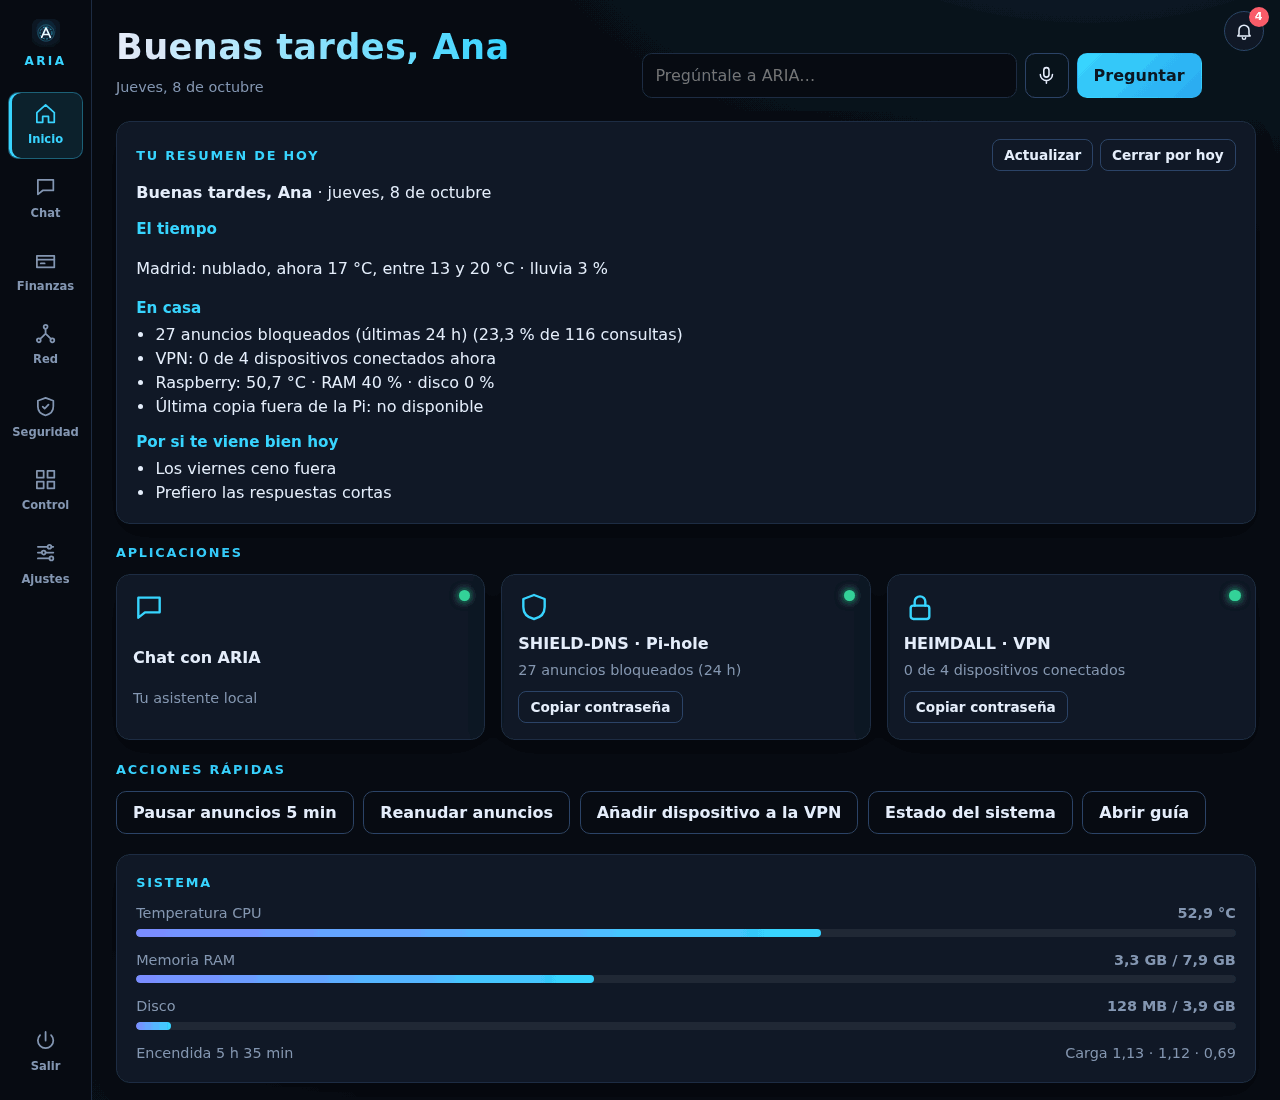
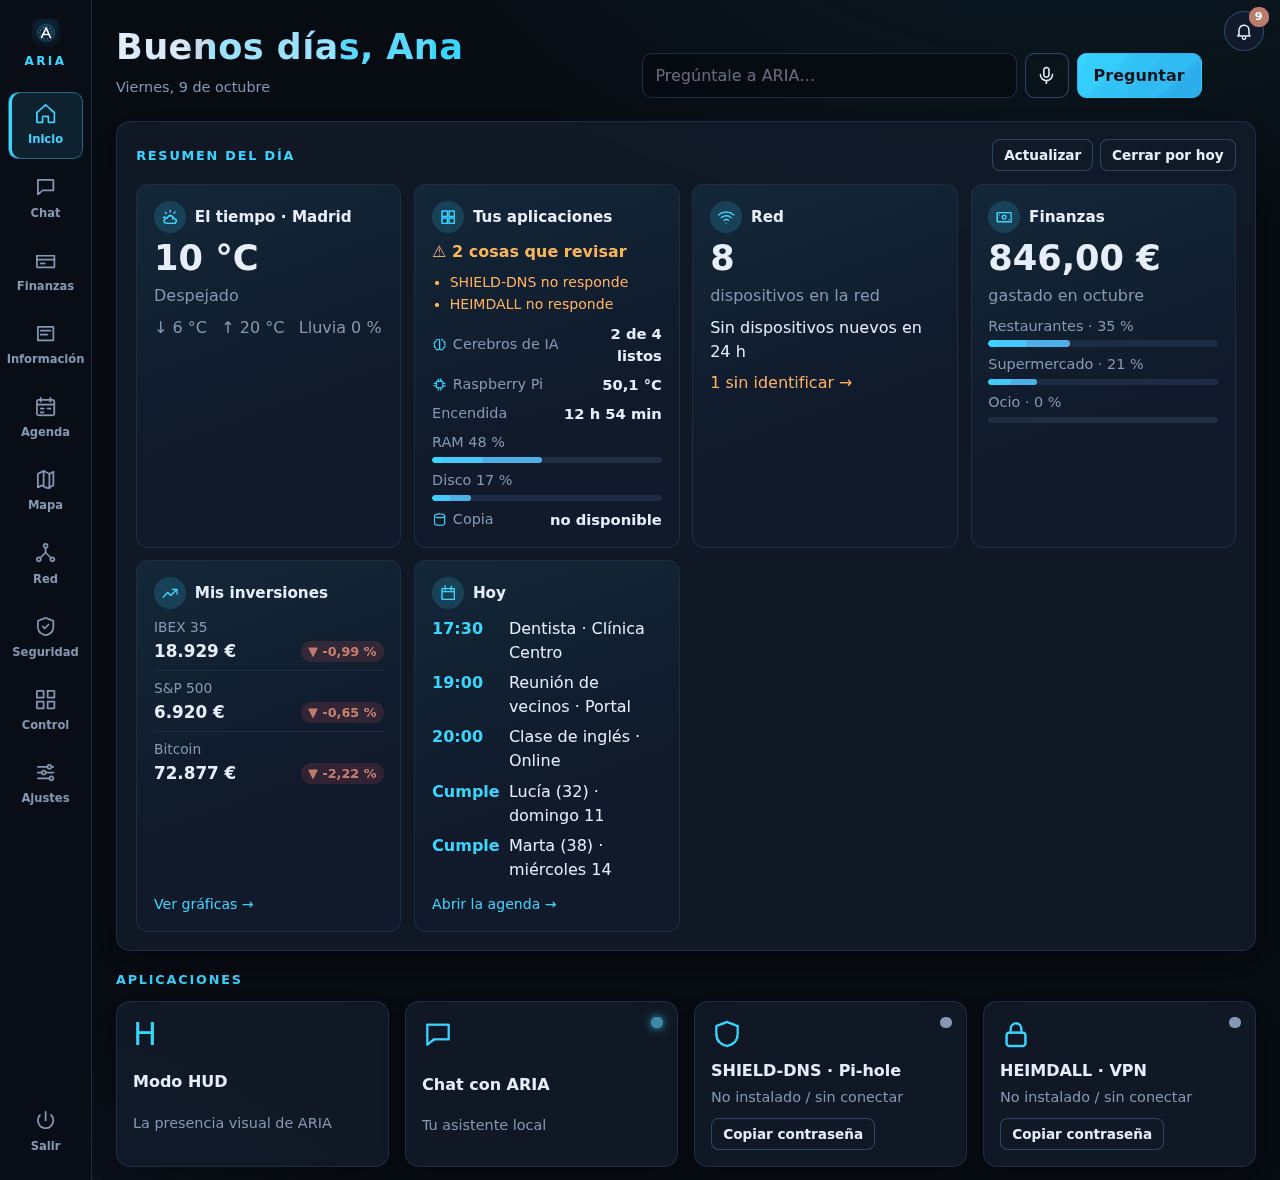
docs: README y guías al día (HUD, resumen diario, Agenda, Mapa, Información, sistema en directo) con capturas nuevas
Capturas de una instancia de demostración con datos ficticios.

diff --git a/README.md b/README.md
@@ -32,7 +32,7 @@
   <a href="docs/PLAN.md">🗺 Hoja de ruta</a>
 </p>
 
-**ARIA es un asistente de inteligencia artificial autoalojado que gestiona tus aplicaciones de casa.** Se instala con un comando en una Raspberry Pi o en un PC con Linux, se abre desde el navegador o el móvil y entiende español: le hablas o le escribes y ella consulta, enciende, pausa o te avisa. HEIMDALL admite dispositivos temporales y avisa al administrador si una VPN conecta desde un país u operador nuevo. Para ello solo envía la IP pública al servicio HTTPS de geolocalización; las IP privadas y las del rango local se ignoran y la respuesta se guarda en ARIA durante siete días para no repetir consultas.
+**ARIA es un asistente de inteligencia artificial autoalojado que gestiona tus aplicaciones de casa.** Se instala con un comando en una Raspberry Pi o en un PC con Linux, se abre desde el navegador o el móvil y entiende español: le hablas o le escribes y ella consulta, enciende, pausa o te avisa.
 
 ARIA se amplía con **módulos**: cada aplicación que añades aparece en su página de Inicio, gana herramientas en el chat y puede mandarte avisos. Trae dos aplicaciones integradas como ejemplo, [SHIELD-DNS](https://github.com/BertMarti/SHIELD-DNS) (bloqueador de anuncios) y [HEIMDALL](https://github.com/BertMarti/HEIMDALL) (VPN), pero puedes añadir todas las que quieras.
 
@@ -45,9 +45,26 @@ ARIA se amplía con **módulos**: cada aplicación que añades aparece en su pá
 </table>
 
 <p align="center">
-  <img alt="Página de Inicio de ARIA con el resumen del día, las aplicaciones y el estado del sistema" src="docs/img/captura-inicio.png" width="100%">
-  <br><sub>Inicio de ARIA en una instancia de demostración con datos ficticios.</sub>
+  <img alt="Modo HUD de ARIA: orbe animado que reacciona a la voz, reloj, tiempo, avisos, estado de la casa e inversiones" src="docs/img/captura-hud.png" width="100%">
+  <br><sub><b>Modo HUD</b>: la presencia de ARIA a pantalla completa. El orbe cambia de color al escuchar, pensar y hablar, y ondula con su voz.</sub>
 </p>
+
+<p align="center">
+  <img alt="Página de Inicio de ARIA con el resumen del día en tarjetas" src="docs/img/captura-inicio.png" width="100%">
+  <br><sub><b>Inicio</b>: el resumen del día en tarjetas (tiempo, estado de tus aplicaciones, red, finanzas, inversiones y agenda). Instancia de demostración con datos ficticios.</sub>
+</p>
+
+### 🆕 Novedades
+
+| | Qué hay de nuevo |
+|:---:|---|
+| 🌌 | **Modo HUD** (`#hud`): pantalla completa con un orbe que respira, escucha y habla; reloj, tiempo, avisos, estado de la casa e inversiones. Respeta «reducir movimiento». |
+| 📰 | **Resumen diario** bien maquetado en **Inicio**, en el **HUD** y por **Telegram** cada mañana: tiempo, salud de las aplicaciones, red, finanzas, inversiones, agenda y cumpleaños. |
+| 📅 | **Agenda y cumpleaños**: calendario mensual, semanal y en lista, eventos que se repiten, avisos antes de cada cita y de cada cumpleaños. También por chat («apúntame el dentista el jueves a las 17:30»). |
+| 🗺 | **Mapa libre** con OpenStreetMap: buscar lugares, tu ubicación, rutas y «farmacias cerca», sin claves ni seguimiento. |
+| 📈 | **Información**: noticias por temas con resumen y fuentes, y **Mis inversiones** (acciones, fondos, ETF y cripto en euros con gráfica, variación y tu posición). |
+| 🖥 | **Sistema en directo**: CPU, memoria y red por contenedor, temperatura y un botón seguro para **reiniciar la Raspberry** desde la web o Telegram. |
+| ⚙ | **Automatizaciones** «si pasa esto, haz aquello», **estadísticas por dispositivo** de la red, **informe semanal** y **proyectos y decisiones** en la memoria. |
 
 ## 📑 Índice
 
@@ -78,6 +95,9 @@ ARIA se amplía con **módulos**: cada aplicación que añades aparece en su pá
 | 🔔 | **Avisos y canales** | Campana de avisos en la web, **bot de Telegram** propio y **notificaciones push** en el móvil o el navegador.<br>Vigila la casa sola: servicios caídos, dispositivos desconocidos, temperatura, disco, copias atrasadas… |
 | 🏡 | **Tu casa y tu red** | **Finanzas personales**: movimientos, categorías, presupuestos e importación del CSV del banco.<br>**Inventario de red**: dispositivos de la LAN, latencia, test de velocidad e historial.<br>**Seguridad**: escaneo defensivo de puertos de tu red y búsqueda de vulnerabilidades conocidas.<br>**Control parental** por dispositivo (pausar internet, bloquear TikTok, YouTube…, horarios), mediante SHIELD-DNS. |
 | 🧩 | **Aplicaciones (módulos)** | **SHIELD-DNS**: estadísticas, pausar y reanudar el bloqueo de anuncios.<br>**HEIMDALL**: ver, crear, activar y desactivar dispositivos de la VPN con su código QR.<br>**Uptime web** (módulo de ejemplo): «¿responde example.org?» y avisos si una web se cae.<br>**Las tuyas**: un mosaico en Inicio, herramientas en el chat, avisos y endpoints propios. Ver [docs/MODULOS.md](docs/MODULOS.md).<br>Spotify y Netflix existen en el código pero están **aparcados** (desactivados por defecto, `ARIA_SPOTIFY=0` / `ARIA_NETFLIX=0`). |
+| 📅 | **Agenda, mapa e información** | **Agenda** con calendario (mes, semana, lista), eventos repetidos y **cumpleaños** con aviso.<br>**Mapa** OpenStreetMap: búsqueda, ubicación, rutas y lugares cercanos.<br>**Información**: noticias por temas y **Mis inversiones** con gráficas en euros. |
+| 🌌 | **HUD y resumen diario** | **Modo HUD** a pantalla completa con orbe animado y voz.<br>**Resumen diario** en Inicio, HUD y Telegram (HTML bien maquetado). |
+| 🖥 | **Sistema** | Telemetría en directo por contenedor, **reinicio seguro** firmado (HMAC) y **automatizaciones**. HEIMDALL admite accesos **temporales** y avisa si una VPN conecta desde un país u operador nuevo (solo se consulta la IP pública). |
 | 🔑 | **Acceso y usuarios** | HTTPS automático en tu red (`https://aria.local`, la IP o `https://aria.lan`).<br>Opcional: tu dominio con **Cloudflare Tunnel + Access**, sin abrir puertos y con inicio de sesión único.<br>Varios usuarios con rol **administrador** o **usuario**; permisos comprobados en el servidor.<br>Paleta de órdenes **Ctrl+K**, app instalable (PWA) y menú **Compartir** de Android. |
 
 <p align="right"><a href="#readme-top">⬆ Volver arriba</a></p>
@@ -88,6 +108,14 @@ ARIA se amplía con **módulos**: cada aplicación que añades aparece en su pá
 > Todas las capturas salen de una instancia de demostración con **datos ficticios** (Ana, Lucía, red `192.168.1.x`). Las respuestas del chat son de ejemplo.
 
 <table>
+  <tr>
+    <td width="50%"><img alt="Agenda con calendario mensual, eventos y cumpleaños" src="docs/img/captura-agenda.png"><p align="center"><sub><b>Agenda</b>: calendario del mes, el día elegido y los próximos cumpleaños</sub></p></td>
+    <td width="50%"><img alt="Resumen diario de ARIA tal como llega por Telegram" src="docs/img/captura-telegram.png"><p align="center"><sub><b>Telegram</b>: el resumen de cada mañana</sub></p></td>
+  </tr>
+  <tr>
+    <td><img alt="Información: Mis inversiones con gráficas y noticias por temas" src="docs/img/captura-informacion.png"><p align="center"><sub><b>Información</b>: inversiones en euros y noticias por temas</sub></p></td>
+    <td><img alt="Mapa de OpenStreetMap con búsqueda y lugares cercanos" src="docs/img/captura-mapa.png"><p align="center"><sub><b>Mapa</b>: OpenStreetMap, sin claves ni seguimiento</sub></p></td>
+  </tr>
   <tr>
     <td width="50%"><img alt="Chat con ARIA: pregunta por el estado de la casa y pausa del bloqueador" src="docs/img/captura-chat.png"><p align="center"><sub><b>Chat</b>: herramientas en vivo y el cerebro que respondió</sub></p></td>
     <td width="50%"><img alt="Página Red con el inventario de dispositivos de casa" src="docs/img/captura-red.png"><p align="center"><sub><b>Red</b>: inventario, latencia y un dispositivo desconocido</sub></p></td>
@@ -103,16 +131,22 @@ ARIA se amplía con **módulos**: cada aplicación que añades aparece en su pá
 </table>
 
 <details>
-<summary><b>📱 Más capturas: móvil, Centro de control y Finanzas</b></summary>
+<summary><b>📱 Más capturas: móvil, Centro de control, semana y Finanzas</b></summary>
 <br>
 
 <p align="center">
-  <img alt="Inicio de ARIA en el móvil" src="docs/img/captura-movil-inicio.png" width="300">
-  &nbsp;&nbsp;
-  <img alt="Chat del agente Redes en el móvil" src="docs/img/captura-movil-chat.png" width="300">
+  <img alt="Inicio de ARIA en el móvil" src="docs/img/captura-movil-inicio.png" width="230">
+  &nbsp;
+  <img alt="Modo HUD en el móvil" src="docs/img/captura-movil-hud.png" width="230">
+  &nbsp;
+  <img alt="Agenda en lista en el móvil" src="docs/img/captura-movil-agenda.png" width="230">
+  &nbsp;
+  <img alt="Chat del agente Redes en el móvil" src="docs/img/captura-movil-chat.png" width="230">
 </p>
 
-<p align="center"><img alt="Centro de control con SHIELD-DNS, HEIMDALL y el sistema" src="docs/img/captura-centro-control.png" width="100%"><br><sub><b>Centro de control</b>: SHIELD-DNS, HEIMDALL y la máquina</sub></p>
+<p align="center"><img alt="Centro de control con SHIELD-DNS, HEIMDALL y el sistema en directo por contenedor" src="docs/img/captura-centro-control.png" width="100%"><br><sub><b>Centro de control</b>: SHIELD-DNS, HEIMDALL, el sistema en directo y el reinicio seguro</sub></p>
+
+<p align="center"><img alt="Agenda en vista semanal" src="docs/img/captura-agenda-semana.png" width="100%"><br><sub><b>Agenda → Semana</b></sub></p>
 
 <p align="center"><img alt="Finanzas: resumen del mes, gastos por categoría y presupuestos" src="docs/img/captura-finanzas.png" width="100%"><br><sub><b>Finanzas</b>: resumen del mes, categorías y presupuestos</sub></p>
 

diff --git a/docs/USO.md b/docs/USO.md
@@ -17,7 +17,7 @@ Esta guía explica qué hay en cada parte de ARIA y cómo sacarle partido en el 
 5. [Voz](#voz)
 6. [Imágenes y tickets](#imágenes-y-tickets)
 7. [Memoria y diario](#memoria-y-diario)
-8. [Resumen de buenos días](#resumen-de-buenos-días)
+8. [Resumen diario](#resumen-diario)
 9. [Recordatorios](#recordatorios)
 10. [Rutinas](#rutinas)
 11. [Finanzas](#finanzas)
@@ -25,13 +25,17 @@ Esta guía explica qué hay en cada parte de ARIA y cómo sacarle partido en el 
 13. [Control parental](#control-parental)
 14. [Seguridad](#seguridad)
 15. [Centro de control](#centro-de-control)
-16. [Ajustes](#ajustes)
-17. [Avisos](#avisos)
-18. [Telegram](#telegram)
-19. [Notificaciones push](#notificaciones-push)
-20. [Atajos: Ctrl+K y Compartir](#atajos-ctrlk-y-compartir)
-21. [Usuarios y roles](#usuarios-y-roles)
-22. [Cuando algo falla](#cuando-algo-falla)
+16. [Modo HUD](#modo-hud)
+17. [Agenda y cumpleaños](#agenda-y-cumpleaños)
+18. [Mapa](#mapa)
+19. [Información e inversiones](#información-e-inversiones)
+20. [Ajustes](#ajustes)
+21. [Avisos](#avisos)
+22. [Telegram](#telegram)
+23. [Notificaciones push](#notificaciones-push)
+24. [Atajos: Ctrl+K y Compartir](#atajos-ctrlk-y-compartir)
+25. [Usuarios y roles](#usuarios-y-roles)
+26. [Cuando algo falla](#cuando-algo-falla)
 
 ## Un vistazo rápido
 
@@ -42,6 +46,9 @@ La barra de navegación tiene estas secciones:
 | **Inicio** | Resumen del día, tus aplicaciones y acciones rápidas | Todos |
 | **Chat** | Hablar con ARIA | Todos |
 | **Finanzas** | Tus gastos, ingresos y presupuestos | Todos (cada uno los suyos) |
+| **Información** | Noticias por temas y tus inversiones | Todos |
+| **Agenda** | Calendario, eventos y cumpleaños | Todos (cada uno los suyos) |
+| **Mapa** | Buscar lugares, rutas y sitios cercanos | Todos |
 | **Red** | Dispositivos de casa, velocidad y control parental | Administradores |
 | **Seguridad** | Escaneo defensivo de la red | Administradores |
 | **Control** | Centro de control de SHIELD-DNS, HEIMDALL y el sistema | Administradores |
@@ -54,7 +61,8 @@ Arriba a la derecha está la **campana** de avisos.
 Es la página que ves al entrar.
 
 - **«Pregúntale a ARIA»**: escribe (o pulsa el micrófono) y se abre un chat con tu pregunta.
-- **Tu resumen de hoy**: el [resumen de buenos días](#resumen-de-buenos-días). Puedes cerrarlo por hoy o actualizarlo.
+- **Resumen del día**: tarjetas con el tiempo, tus aplicaciones, la red, tus finanzas, tus inversiones y tu agenda de hoy (ver [Resumen diario](#resumen-diario)). Puedes cerrarlo por hoy o actualizarlo.
+- **Modo HUD**: el primer mosaico abre la [pantalla HUD](#modo-hud).
 - **Aplicaciones**: un mosaico por aplicación (Chat, SHIELD-DNS, HEIMDALL y los [módulos](MODULOS.md) que tengas). El punto de color dice si está **activa**, **caída** o **sin instalar**. Al pulsar, se abre en una pestaña nueva. En SHIELD-DNS y HEIMDALL, **Copiar contraseña** te ahorra teclearla en su panel (solo administradores).
 - **Acciones rápidas** (administradores): *Pausar anuncios 5 min*, *Reanudar anuncios*, *Añadir dispositivo a la VPN* y *Estado del sistema*.
 - **Sistema**: temperatura, memoria, disco y carga de la máquina.
@@ -133,12 +141,21 @@ Privacidad: para detectar «Aria», el sonido va a tu máquina (nunca fuera). Lo
 
 La memoria se envía a los cerebros de la nube junto con tus preguntas para darte contexto. Al cerebro local solo le llega un trozo pequeño.
 
-## Resumen de buenos días
+## Resumen diario
 
-En **Inicio**, la tarjeta «Tu resumen de hoy» reúne: saludo y fecha, tu resumen de ayer, anuncios bloqueados ayer, el tiempo (si pusiste `ARIA_CIUDAD`), el estado de la máquina, algún recuerdo que venga al caso y, para administradores, la VPN y la última copia de seguridad.
+Un único resumen que verás igual en tres sitios: la tarjeta **Resumen del día** de Inicio, el panel del **HUD** y un mensaje de **Telegram** bien maquetado (negritas, secciones y emojis).
 
-- En el **chat**, el primer «hola» o «buenos días» del día se responde con una versión hablada del resumen.
-- Por **Telegram** o **notificación** a la hora que elijas (por defecto, las 08:00): actívalo en Ajustes → Avisos.
+| Sección | Qué cuenta | Quién la ve |
+|---|---|---|
+| 🌤 El tiempo | Cielo, temperatura ahora, mínima, máxima y lluvia; avisa si mañana cambia mucho | Todos (si pusiste `ARIA_CIUDAD`) |
+| 📊 Tus aplicaciones | «Todo en orden» o la lista de cosas que revisar: SHIELD-DNS, HEIMDALL, cerebros de IA, Raspberry (temperatura, RAM, disco) y copia | Administradores |
+| 🛜 Red | Dispositivos nuevos en 24 h y los que siguen sin identificar | Administradores |
+| 💶 Finanzas | Lo gastado este mes frente al mes pasado **a estas alturas**, ingresos y presupuestos | Cada uno los suyos |
+| 📈 Mis inversiones | Precio en euros y variación del día de tu lista de seguimiento | Cada uno la suya |
+| 📅 Hoy | Eventos, recordatorios y cumpleaños de la semana | Cada uno los suyos |
+
+- Por **Telegram** o **notificación** a la hora que elijas (por defecto, las 08:00): actívalo en **Ajustes → Avisos**. También puedes pedirlo cuando quieras con `/resumen` o diciéndole «resúmeme el día».
+- El resumen se prepara una vez cada 10 minutos como mucho; **Actualizar** lo rehace al momento.
 
 ## Recordatorios
 
@@ -226,8 +243,36 @@ Solo para administradores. Tarjetas que se actualizan solas cada 15 segundos:
   - **Añadir dispositivo**: escribe un nombre, pulsa **Crear** y escanea el QR con la app WireGuard del móvil (o **Descargar .conf** para un ordenador).
   - **QR** vuelve a mostrar el código; **Activar/Desactivar** corta o devuelve el acceso; **Eliminar** pide confirmación.
 - **Sistema**: temperatura, memoria, disco, carga y tiempo encendida.
+- **Sistema en directo**: CPU, memoria y red de cada contenedor, actualizado cada pocos segundos (necesita el pequeño agente del sistema, ver [INSTALACION.md](INSTALACION.md)).
+- **Reiniciar la Raspberry**: pide confirmación y deja una petición firmada que el agente del sistema comprueba antes de reiniciar. También desde Telegram.
 
 Si una aplicación sale «no conectado», revisa su contraseña en `.env` (ver [Problemas frecuentes](INSTALACION.md#17-problemas-frecuentes)).
+
+## Modo HUD
+
+Abre `https://aria.local/#hud` (o el mosaico **Modo HUD** de Inicio). Es una pantalla pensada para una tableta o una tele:
+
+- En el centro, un **orbe** que respira en reposo y cambia de color cuando ARIA **escucha** (verde), **piensa** (violeta) y **habla** (azul, ondulando al ritmo de su voz). Debajo aparecen los subtítulos de lo que dice.
+- Alrededor: **reloj**, **tiempo**, **avisos sin leer**, **próximo recordatorio**, **estado de la casa** e **inversiones** del día (los de administración solo los ven administradores).
+- Abajo: escribe, mantén el micrófono o activa **Manos libres** y di «Aria».
+- **Pantalla completa** y **Salir** arriba a la derecha. Si tu sistema tiene activado «reducir movimiento», el orbe se queda casi quieto.
+
+## Agenda y cumpleaños
+
+- **Mes**, **Semana** o **Lista** (próximos 60 días). Pulsa un día para ver sus planes en el panel lateral; doble clic para crear un evento ese día.
+- **+ Evento**: título, fecha, hora de inicio y fin (o **todo el día**), lugar, repetición (semanal, mensual o anual), aviso previo y notas. Pulsa un evento para **editarlo** o **borrarlo**; si se repite, el cambio se aplica a toda la serie.
+- **+ Cumpleaños**: nombre, día, mes y, si quieres, el año para saber cuántos cumple. ARIA te avisa el mismo día o con antelación.
+- Por chat: «apúntame el dentista el jueves a las 17:30», «¿qué tengo mañana?», «el cumpleaños de Lucía es el 11 de octubre».
+
+## Mapa
+
+Mapa de **OpenStreetMap**, sin claves ni seguimiento: busca una dirección, pulsa **Mi ubicación** (el navegador te pedirá permiso), traza una **ruta** o busca **farmacias, gasolineras, supermercados, restaurantes o cajeros** cerca.
+
+## Información e inversiones
+
+- **Noticias por temas** (España, Tecnología, Economía… los eliges en **Editar temas y seguimiento**), con un resumen y sus fuentes.
+- **Mis inversiones**: busca un valor por nombre o símbolo (acciones, fondos, ETF, índices o criptomonedas) y añádelo. Si indicas **cantidad** y **precio medio**, verás el valor de tu posición y la ganancia o pérdida. Todo se convierte a **euros**, con una gráfica del último año y la variación del día, la semana, el mes y el año.
+- ARIA informa, **no aconseja**: no es un asesor financiero.
 
 ## Ajustes
 

diff --git a/docs/INSTALACION.md b/docs/INSTALACION.md
@@ -442,6 +442,19 @@ Instala dos protecciones (`instalar-todo.sh` ya lo hace por ti):
 - **Autoheal**: cada 2 minutos reinicia los contenedores que Docker marca como «unhealthy» (colgados). Registro: `journalctl -t homelab-autoheal`.
 - **Watchdog**: si el sistema entero se bloquea, la máquina se reinicia sola (si tiene `/dev/watchdog`, como la Raspberry Pi).
 
+### Agente del sistema (sistema en directo y reinicio)
+
+```bash
+~/homelab/ARIA/sistema/instalar-host-agente.sh
+```
+
+ARIA vive aislada en un contenedor, sin acceso a Docker ni a la máquina. Este pequeño servicio (`aria-host-agente`, solo biblioteca estándar de Python) le da exactamente dos cosas a través de `data/host/`:
+
+- **Telemetría** cada 5 s: CPU, memoria y red por contenedor, y temperatura y carga del sistema (Centro de control → **Sistema en directo** y el HUD).
+- **Reinicio bajo petición**: solo si la petición está **firmada** con `ARIA_SECRET` (HMAC-SHA256), tiene menos de 2 minutos y no se ha usado antes. Cualquier otro archivo se borra.
+
+Registro: `journalctl -u aria-host-agente`. Sin el agente, ARIA funciona igual; solo faltan esas dos tarjetas.
+
 ## 15. Actualizar
 
 ```bash

diff --git a/docs/PLAN.md b/docs/PLAN.md
@@ -98,14 +98,15 @@ Cómo leer las tablas:
 
 ---
 
-## En marcha (octubre de 2026)
+## Hecho en octubre de 2026
 
-Elegido para la siguiente versión, inspirado en asistentes tipo «Jarvis»:
+Ya disponible (ver la [guía de uso](USO.md)):
 - **Modo HUD:** pantalla completa con un orbe animado que reacciona a la voz y widgets.
 - **Agenda y cumpleaños:** con avisos y resumen de buenos días.
 - **Mapas libres:** OpenStreetMap, rutas y sitios cercanos, sin claves.
 - **Centro de información:** noticias por temas con resumen, bolsa y criptomonedas.
 - **Estadísticas por dispositivo** e **informe semanal** de la red y la VPN.
+- **Resumen diario** en Inicio, HUD y Telegram; **sistema en directo**, **reinicio seguro** y **automatizaciones**.
 
 ## 3. Orden propuesto
 
